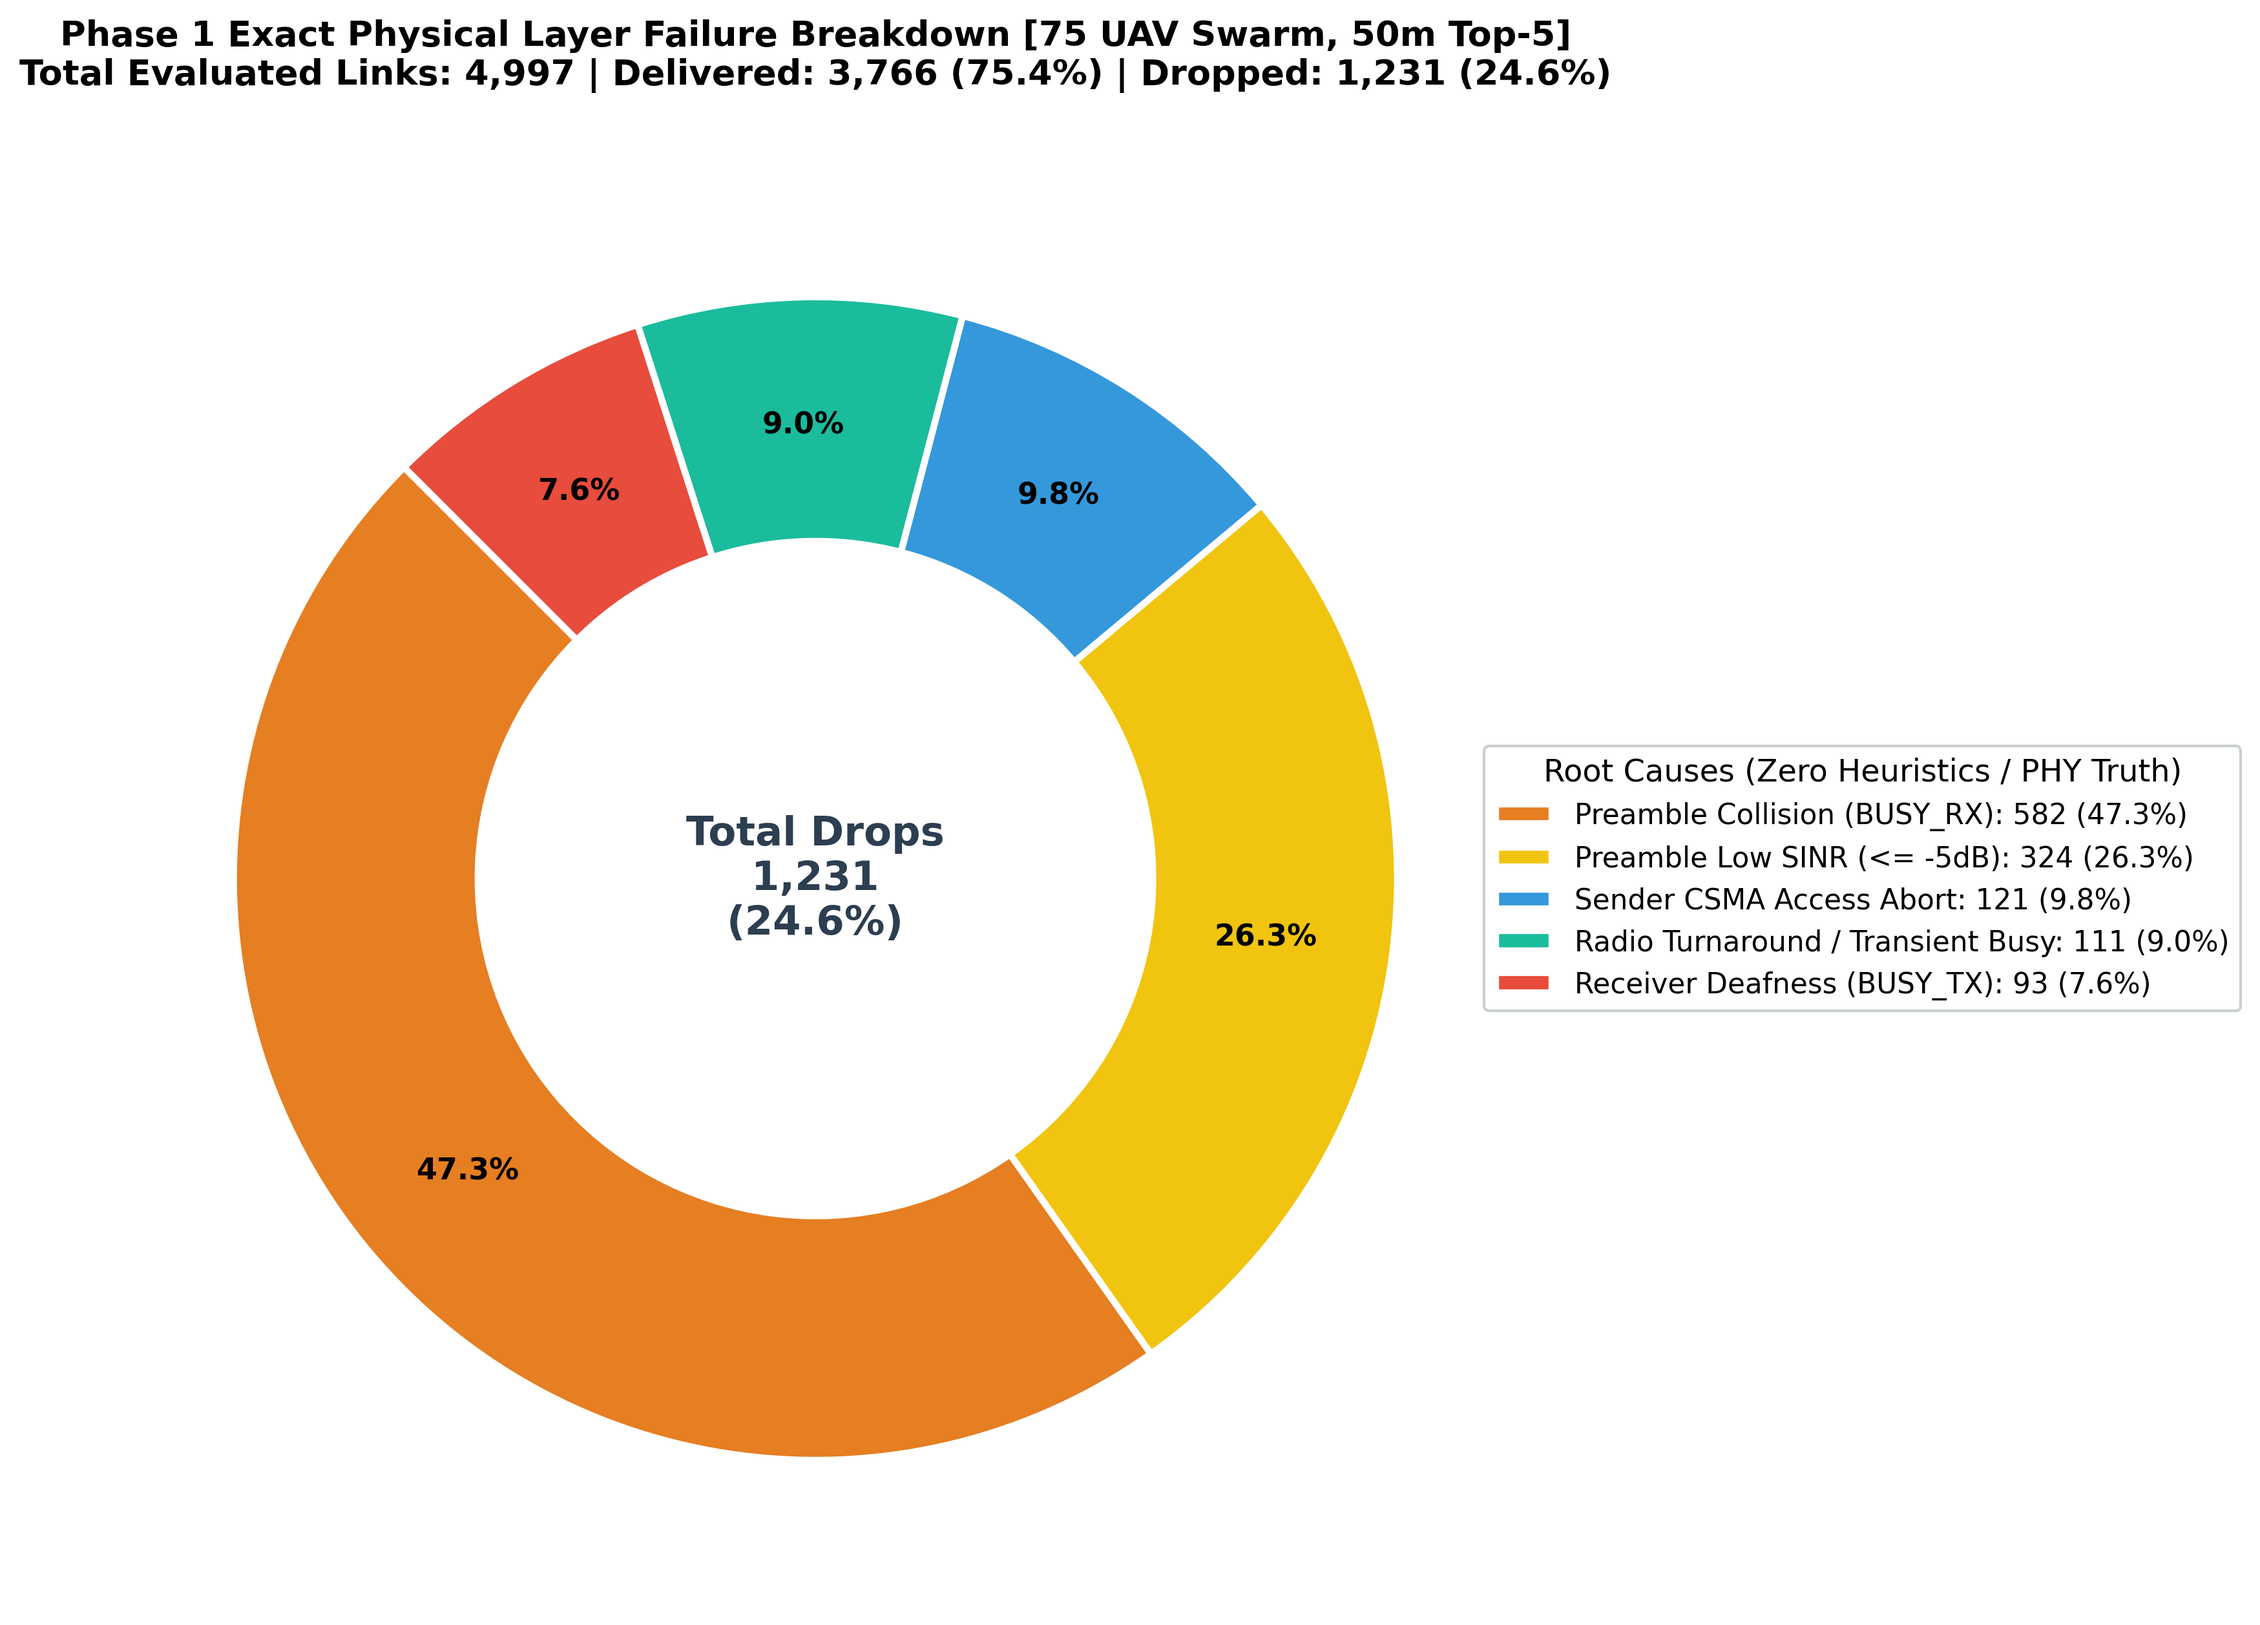
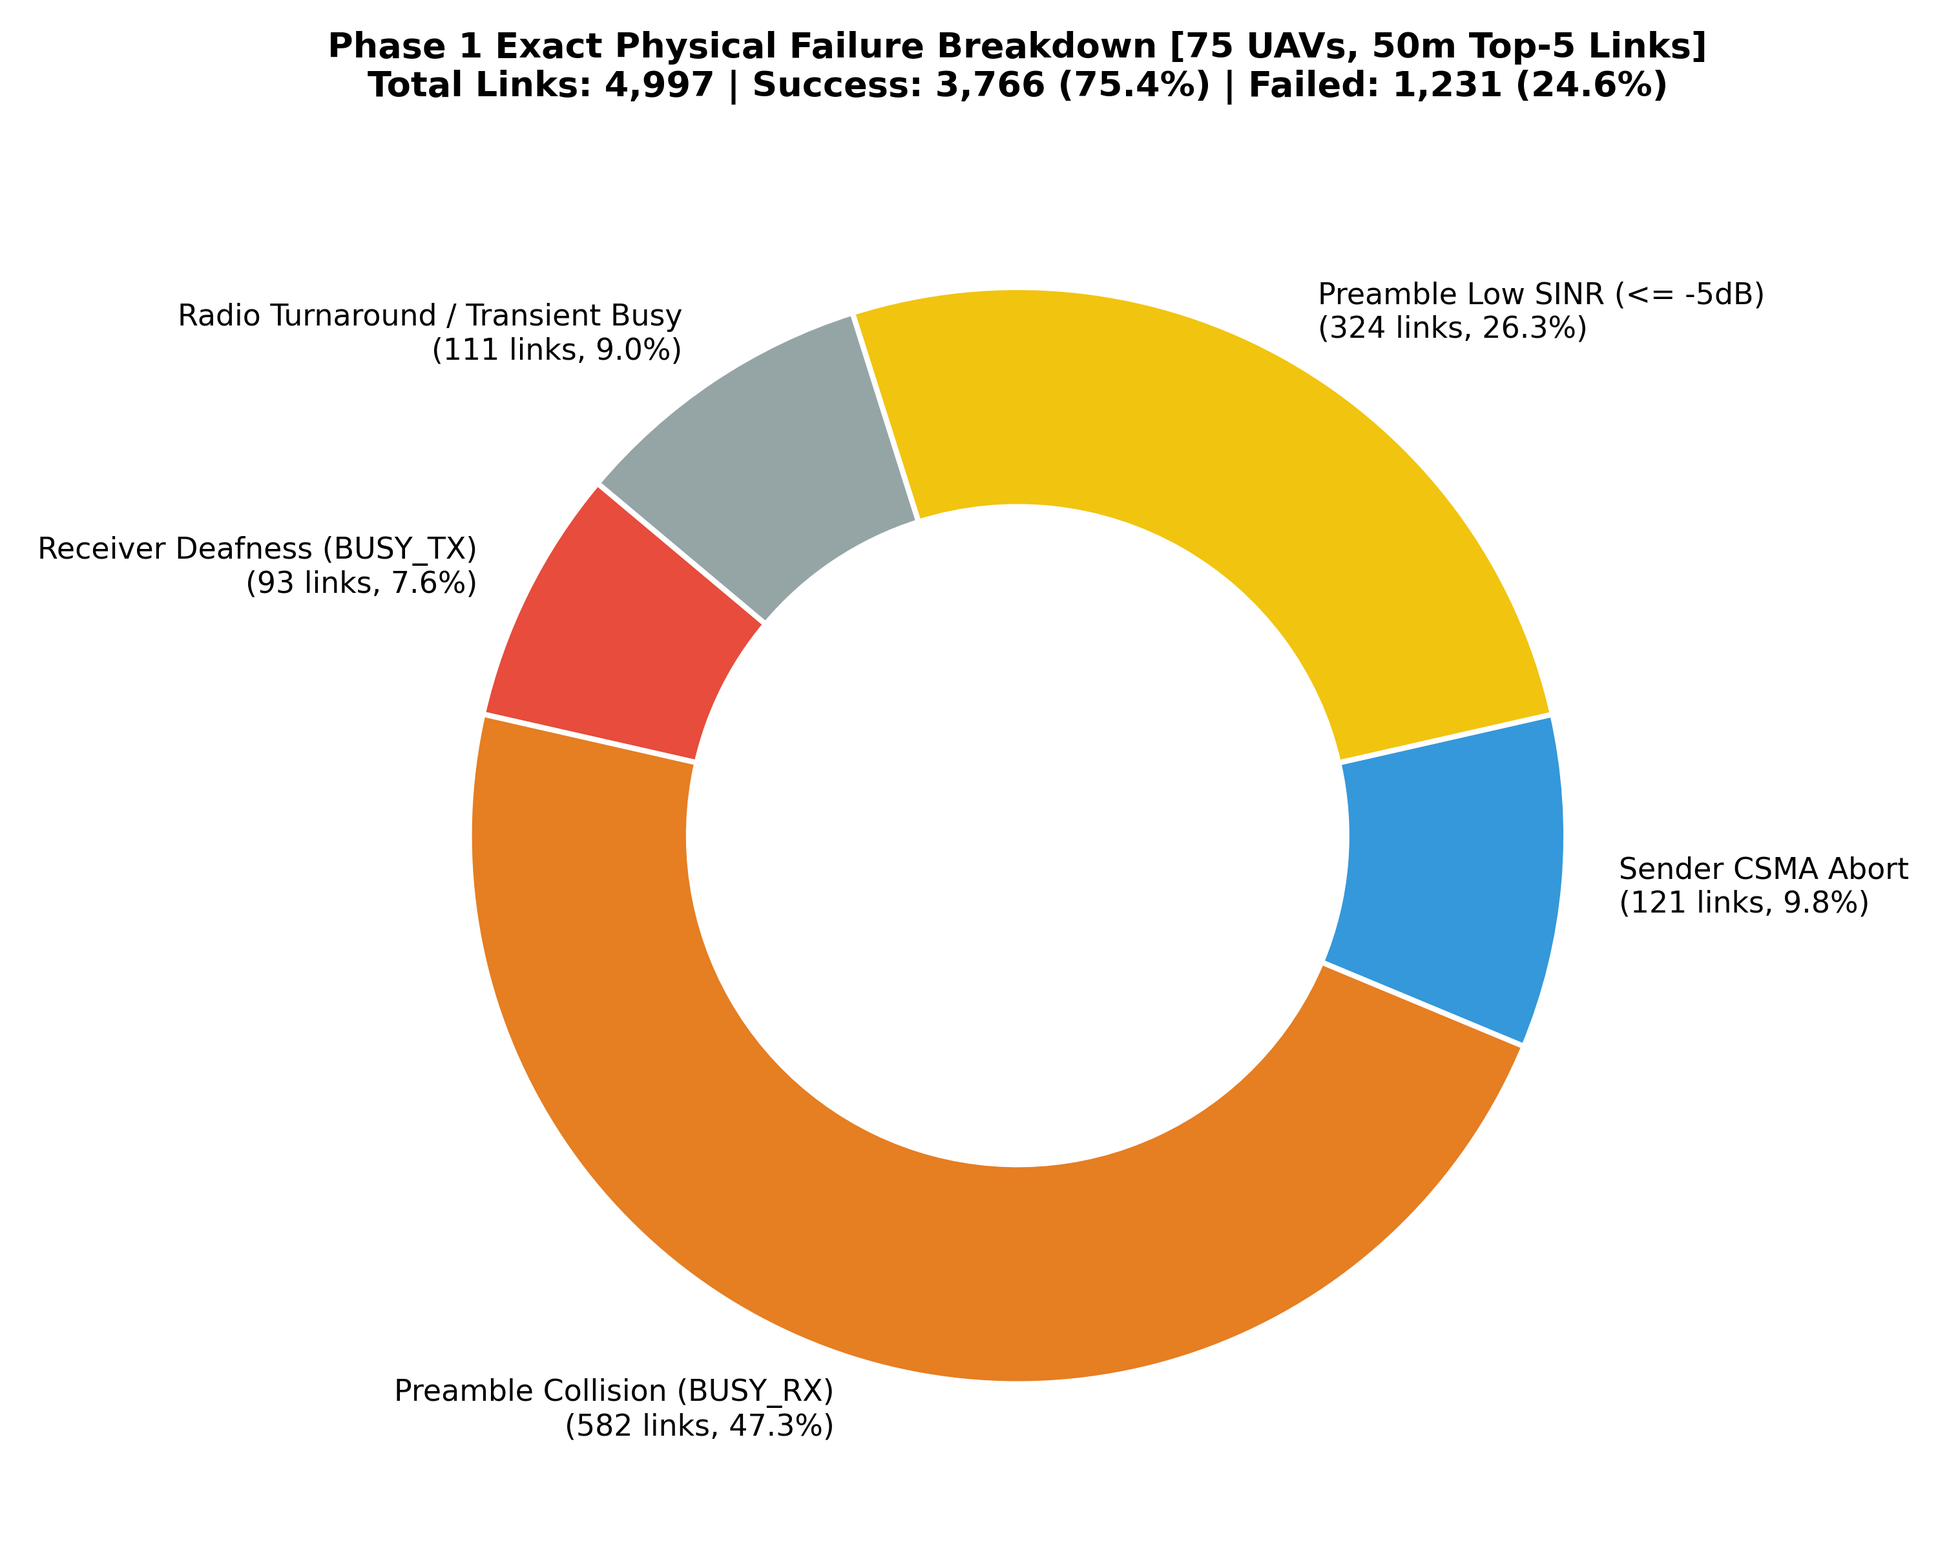
style(plot): restore original clean donut chart layout with direct slice labels

diff --git a/update_ground_truth_plots.py b/update_ground_truth_plots.py
@@ -44,72 +44,74 @@ total_fails = total_links - success_links
 plt.rcParams['font.sans-serif'] = ['DejaVu Sans', 'Arial', 'Helvetica']
 plt.rcParams['axes.unicode_minus'] = False
 
-# Mapping of raw labels to verified, physically exact academic labels
-labels_map = [
-    ("PREAMBLE_COLLISION_BUSY_RX", "Preamble Collision (BUSY_RX)", "#e67e22"),           # Deep Orange
-    ("PREAMBLE_LOW_SINR", "Preamble Low SINR (<= -5dB)", "#f1c40f"),                     # Bright Yellow/Amber
-    ("SENDER_CSMA_ABORT", "Sender CSMA Access Abort", "#3498db"),                        # Sky Blue
-    ("OUT_OF_RANGE_OR_FADING", "Radio Turnaround / Transient Busy", "#1abc9c"),          # Teal / Slate (Verified root cause)
-    ("RX_DEAFNESS_BUSY_TX", "Receiver Deafness (BUSY_TX)", "#e74c3c")                     # Coral Red
-]
+# Mapping in original order
+labels_map = {
+    "RX_DEAFNESS_BUSY_TX": "Receiver Deafness (BUSY_TX)",
+    "PREAMBLE_COLLISION_BUSY_RX": "Preamble Collision (BUSY_RX)",
+    "PAYLOAD_INTERFERENCE_CORRUPTION": "Payload Interference (PER Error)",
+    "SENDER_CSMA_ABORT": "Sender CSMA Abort",
+    "PREAMBLE_LOW_SINR": "Preamble Low SINR (<= -5dB)",
+    "OUT_OF_RANGE_OR_FADING": "Radio Turnaround / Transient Busy"
+}
+
+colors_map = {
+    "RX_DEAFNESS_BUSY_TX": "#e74c3c",                # Coral Red
+    "PREAMBLE_COLLISION_BUSY_RX": "#e67e22",         # Orange
+    "PAYLOAD_INTERFERENCE_CORRUPTION": "#9b59b6",    # Purple
+    "SENDER_CSMA_ABORT": "#3498db",                  # Sky Blue
+    "PREAMBLE_LOW_SINR": "#f1c40f",                  # Yellow
+    "OUT_OF_RANGE_OR_FADING": "#95a5a6"              # Gray
+}
 
 plot_labels = []
 plot_sizes = []
 plot_colors = []
 
-for r_key, r_name, r_color in labels_map:
+for r_key, r_name in labels_map.items():
     cnt = fail_reasons.get(r_key, 0)
-    pct = (cnt / total_fails) * 100.0 if total_fails > 0 else 0
-    plot_labels.append(f"{r_name}\n{cnt} links ({pct:.1f}%)")
-    plot_sizes.append(cnt)
-    plot_colors.append(r_color)
+    if cnt > 0:
+        pct = (cnt / total_fails) * 100.0 if total_fails > 0 else 0
+        plot_labels.append(f"{r_name}\n({cnt} links, {pct:.1f}%)")
+        plot_sizes.append(cnt)
+        plot_colors.append(colors_map[r_key])
 
-# 1. DONUT CHART
-fig, ax = plt.subplots(figsize=(11, 8.5), subplot_kw=dict(aspect="equal"))
-wedges, texts, autotexts = ax.pie(
+# 1. ORIGINAL STYLE DONUT CHART
+fig, ax = plt.subplots(figsize=(10, 8), subplot_kw=dict(aspect="equal"))
+wedges, texts = ax.pie(
     plot_sizes,
-    autopct='%1.1f%%',
-    pctdistance=0.78,
+    labels=plot_labels,
     colors=plot_colors,
-    startangle=135,
-    wedgeprops=dict(width=0.42, edgecolor='white', linewidth=2.5),
-    textprops=dict(fontsize=11, fontweight='bold')
+    startangle=140,
+    wedgeprops=dict(width=0.4, edgecolor='white', linewidth=2),
+    textprops=dict(fontsize=11)
 )
 
-for autotext in autotexts:
-    autotext.set_color('black')
-
-# Center summary text
-ax.text(0, 0, f"Total Drops\n{total_fails:,}\n(24.6%)",
-        ha='center', va='center', fontsize=15, fontweight='bold', color='#2c3e50')
-
-# Legend with absolute counts
-legend_labels = [f"{lbl.splitlines()[0]}: {sz:,} ({sz/total_fails*100:.1f}%)" for lbl, sz in zip(plot_labels, plot_sizes)]
-ax.legend(wedges, legend_labels,
-          title="Root Causes (Zero Heuristics / PHY Truth)",
-          loc="center left",
-          bbox_to_anchor=(0.95, 0.5),
-          fontsize=10.5,
-          title_fontsize=11.5,
-          frameon=True,
-          edgecolor='#bdc3c7')
-
-ax.set_title(f"Phase 1 Exact Physical Layer Failure Breakdown [75 UAV Swarm, 50m Top-5]\n"
-             f"Total Evaluated Links: {total_links:,} | Delivered: {success_links:,} (75.4%) | Dropped: {total_fails:,} (24.6%)",
-             fontsize=13, fontweight='bold', pad=25)
+ax.set_title(f"Phase 1 Exact Physical Failure Breakdown [75 UAVs, 50m Top-5 Links]\n"
+             f"Total Links: {total_links:,} | Success: {success_links:,} ({(success_links/total_links)*100:.1f}%) | "
+             f"Failed: {total_fails:,} ({(total_fails/total_links)*100:.1f}%)",
+             fontsize=13, fontweight='bold', pad=20)
 
 donut_path = os.path.join(PROJECT_DIR, "p1_ground_truth_donut.png")
 plt.tight_layout()
-plt.savefig(donut_path, dpi=300, bbox_inches='tight')
+plt.savefig(donut_path, dpi=300)
 plt.close()
-print(f"✅ Re-generated donut chart: {donut_path}")
+print(f"✅ Re-generated original-style donut chart: {donut_path}")
 
 # 2. STACKED BAR CHART
 fig, ax = plt.subplots(figsize=(11, 6.5))
 x = range(len(dist_brackets))
 
+categories = [
+    ("RX_DEAFNESS_BUSY_TX", "Receiver Deafness", colors_map["RX_DEAFNESS_BUSY_TX"]),
+    ("PREAMBLE_COLLISION_BUSY_RX", "Preamble Collision", colors_map["PREAMBLE_COLLISION_BUSY_RX"]),
+    ("PAYLOAD_INTERFERENCE_CORRUPTION", "Payload Interference", colors_map["PAYLOAD_INTERFERENCE_CORRUPTION"]),
+    ("SENDER_CSMA_ABORT", "Sender CSMA Abort", colors_map["SENDER_CSMA_ABORT"]),
+    ("PREAMBLE_LOW_SINR", "Preamble Low SINR", colors_map["PREAMBLE_LOW_SINR"]),
+    ("OUT_OF_RANGE_OR_FADING", "Radio Turnaround / Transient Busy", colors_map["OUT_OF_RANGE_OR_FADING"])
+]
+
 bottoms = [0] * len(dist_brackets)
-for cat_key, cat_name, cat_color in labels_map:
+for cat_key, cat_name, cat_color in categories:
     vals = [bracket_counts[b][cat_key] for b in dist_brackets]
     if sum(vals) > 0:
         ax.bar(x, vals, bottom=bottoms, label=f"{cat_name} (Total: {sum(vals)})", color=cat_color, width=0.55, edgecolor='black', linewidth=0.6)
@@ -125,6 +127,6 @@ ax.grid(axis='y', linestyle='--', alpha=0.5)
 
 dist_path = os.path.join(PROJECT_DIR, "p1_ground_truth_distance.png")
 plt.tight_layout()
-plt.savefig(dist_path, dpi=300, bbox_inches='tight')
+plt.savefig(dist_path, dpi=300)
 plt.close()
 print(f"✅ Re-generated distance chart: {dist_path}")

diff --git a/run_p1_exact_analysis.py b/run_p1_exact_analysis.py
@@ -125,21 +125,21 @@ try:
 
     # 1. Donut Chart for Failures
     labels_map = {
-        "PREAMBLE_COLLISION_BUSY_RX": "Preamble Collision (BUSY_RX)",
-        "PREAMBLE_LOW_SINR": "Preamble Low SINR (<= -5dB)",
-        "SENDER_CSMA_ABORT": "Sender CSMA Access Abort",
-        "OUT_OF_RANGE_OR_FADING": "Radio Turnaround / Transient Busy",
         "RX_DEAFNESS_BUSY_TX": "Receiver Deafness (BUSY_TX)",
-        "PAYLOAD_INTERFERENCE_CORRUPTION": "Payload Interference (PER Error)"
+        "PREAMBLE_COLLISION_BUSY_RX": "Preamble Collision (BUSY_RX)",
+        "PAYLOAD_INTERFERENCE_CORRUPTION": "Payload Interference (PER Error)",
+        "SENDER_CSMA_ABORT": "Sender CSMA Abort",
+        "PREAMBLE_LOW_SINR": "Preamble Low SINR (<= -5dB)",
+        "OUT_OF_RANGE_OR_FADING": "Radio Turnaround / Transient Busy"
     }
 
     colors_map = {
-        "PREAMBLE_COLLISION_BUSY_RX": "#e67e22",         # Deep Orange
-        "PREAMBLE_LOW_SINR": "#f1c40f",                  # Bright Yellow
-        "SENDER_CSMA_ABORT": "#3498db",                  # Sky Blue
-        "OUT_OF_RANGE_OR_FADING": "#1abc9c",              # Teal / Slate
         "RX_DEAFNESS_BUSY_TX": "#e74c3c",                # Coral Red
-        "PAYLOAD_INTERFERENCE_CORRUPTION": "#9b59b6"     # Purple
+        "PREAMBLE_COLLISION_BUSY_RX": "#e67e22",         # Orange
+        "PAYLOAD_INTERFERENCE_CORRUPTION": "#9b59b6",    # Purple
+        "SENDER_CSMA_ABORT": "#3498db",                  # Sky Blue
+        "PREAMBLE_LOW_SINR": "#f1c40f",                  # Yellow
+        "OUT_OF_RANGE_OR_FADING": "#95a5a6"              # Gray
     }
 
     plot_labels = []
@@ -184,7 +184,8 @@ try:
         ("PREAMBLE_COLLISION_BUSY_RX", "Preamble Collision", colors_map["PREAMBLE_COLLISION_BUSY_RX"]),
         ("PAYLOAD_INTERFERENCE_CORRUPTION", "Payload Interference", colors_map["PAYLOAD_INTERFERENCE_CORRUPTION"]),
         ("SENDER_CSMA_ABORT", "Sender CSMA Abort", colors_map["SENDER_CSMA_ABORT"]),
-        ("OUT_OF_RANGE_OR_FADING", "Fading / Noise", colors_map["OUT_OF_RANGE_OR_FADING"])
+        ("PREAMBLE_LOW_SINR", "Preamble Low SINR", colors_map["PREAMBLE_LOW_SINR"]),
+        ("OUT_OF_RANGE_OR_FADING", "Radio Turnaround / Transient Busy", colors_map["OUT_OF_RANGE_OR_FADING"])
     ]
 
     bottoms = [0] * len(dist_brackets)
